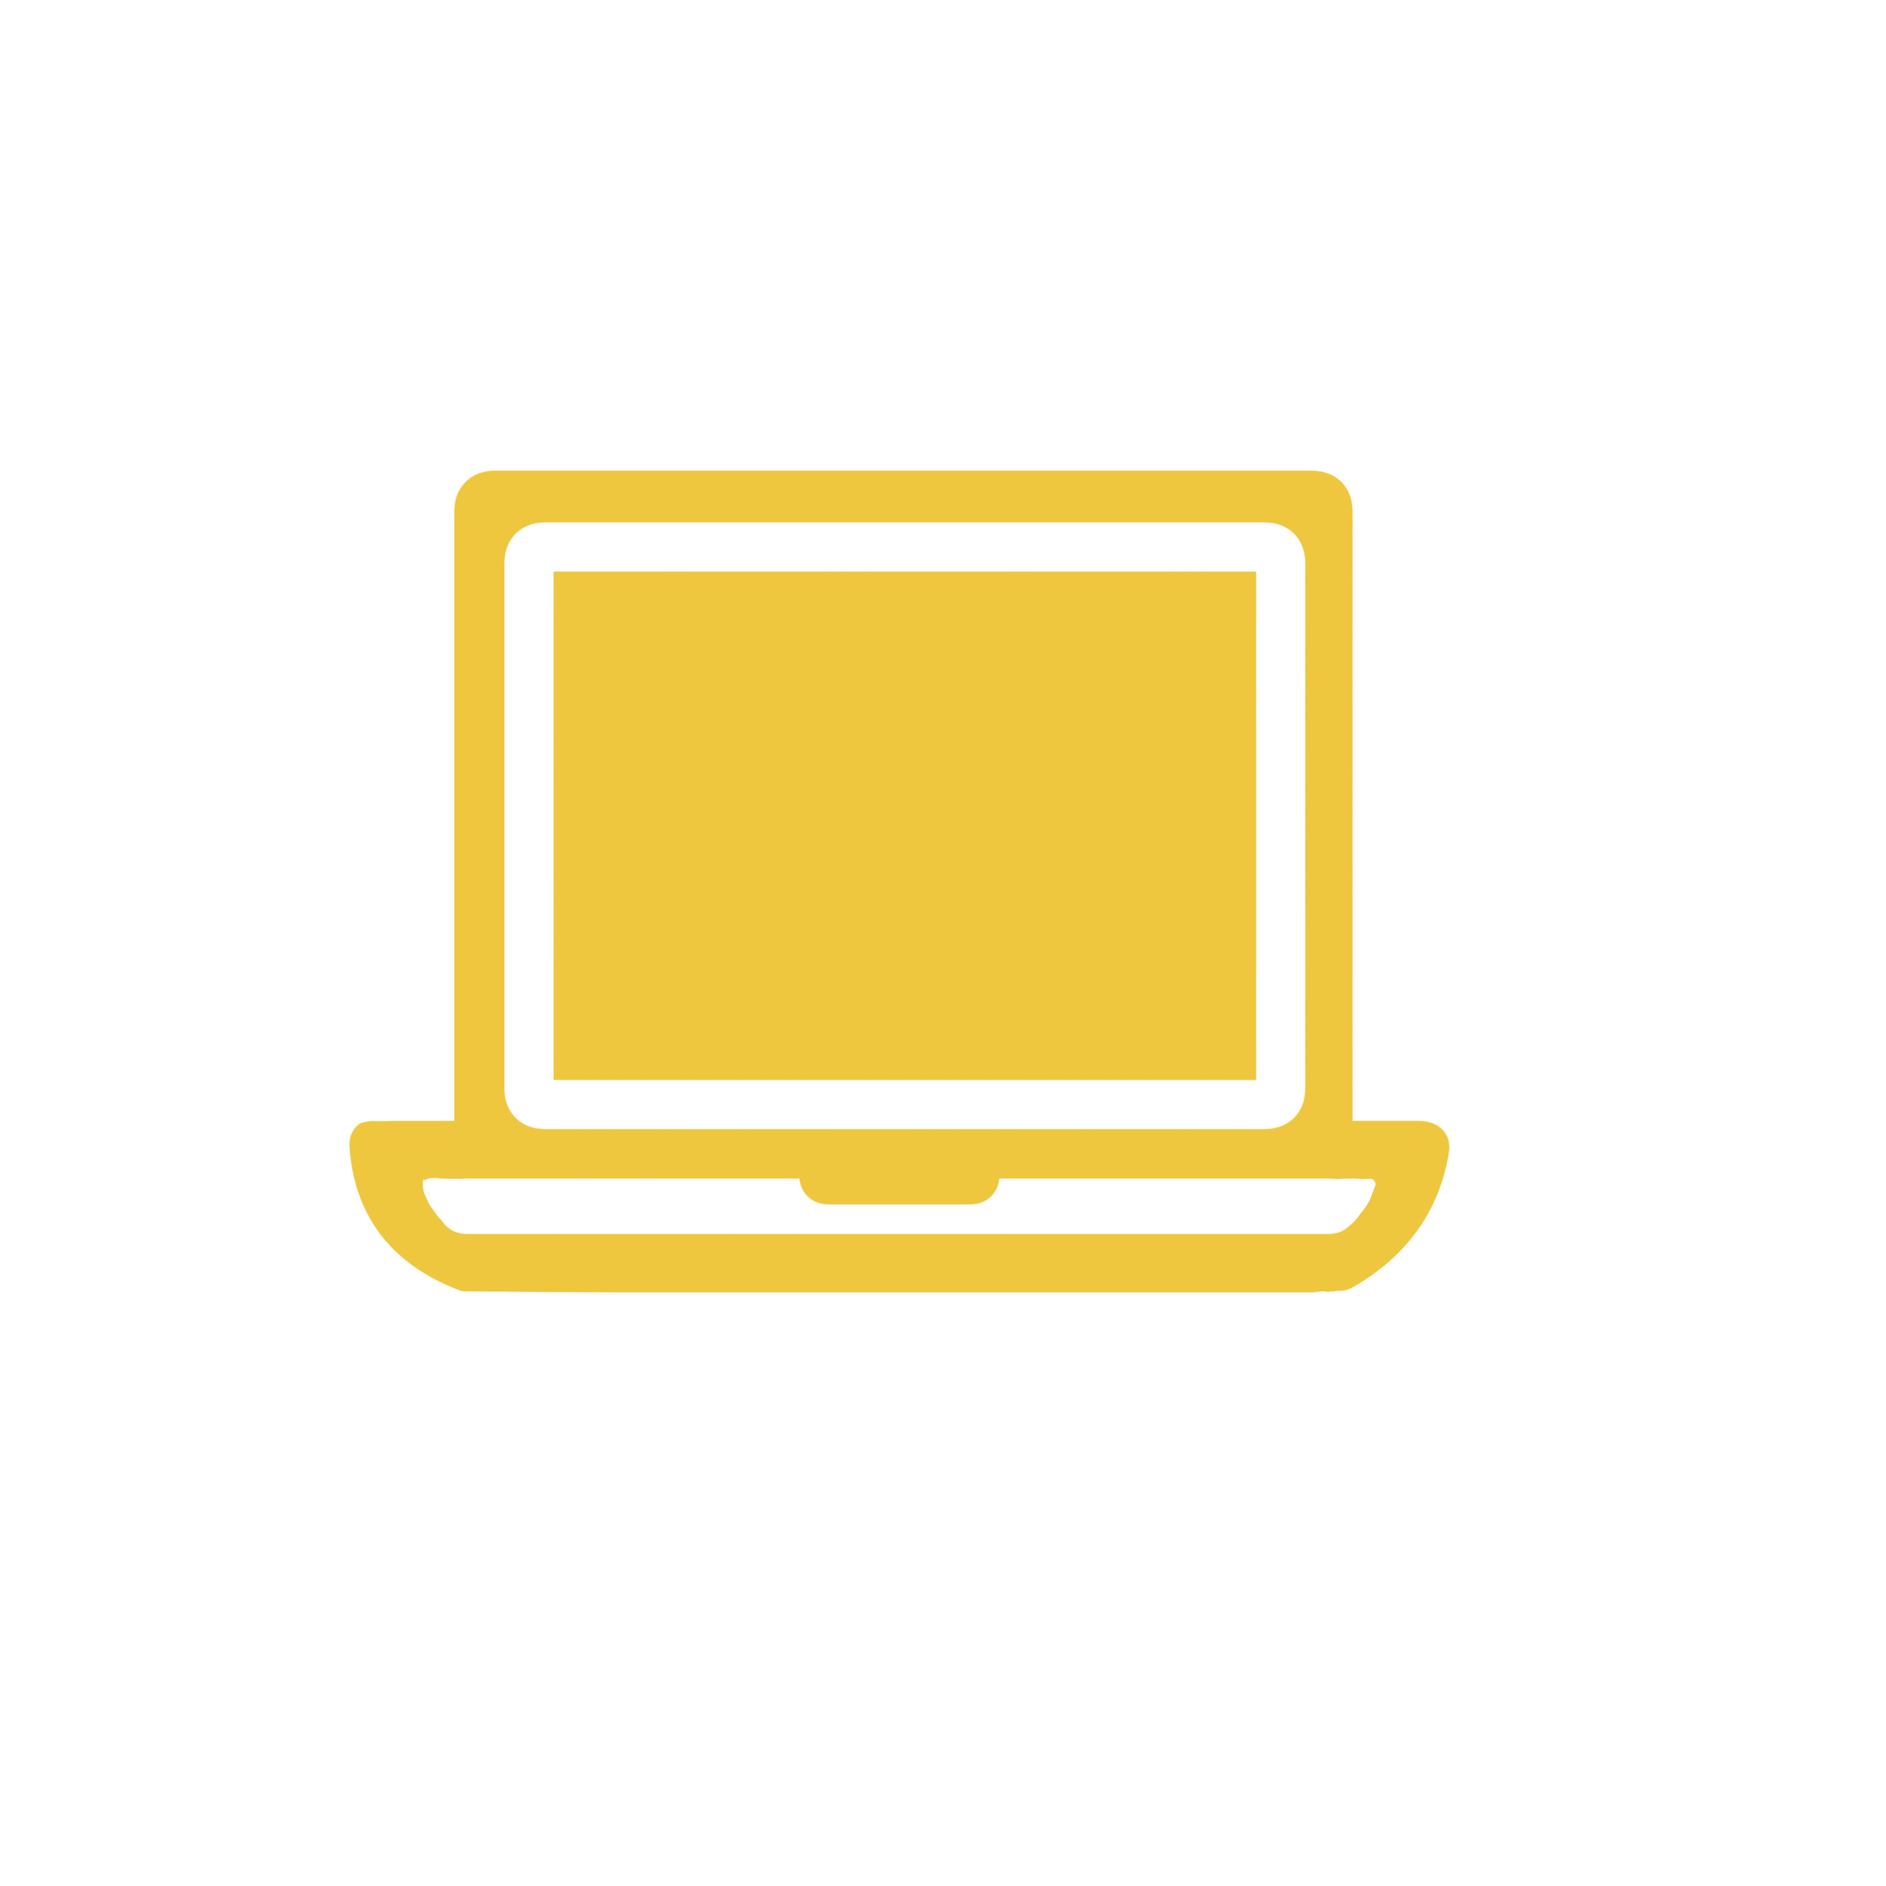
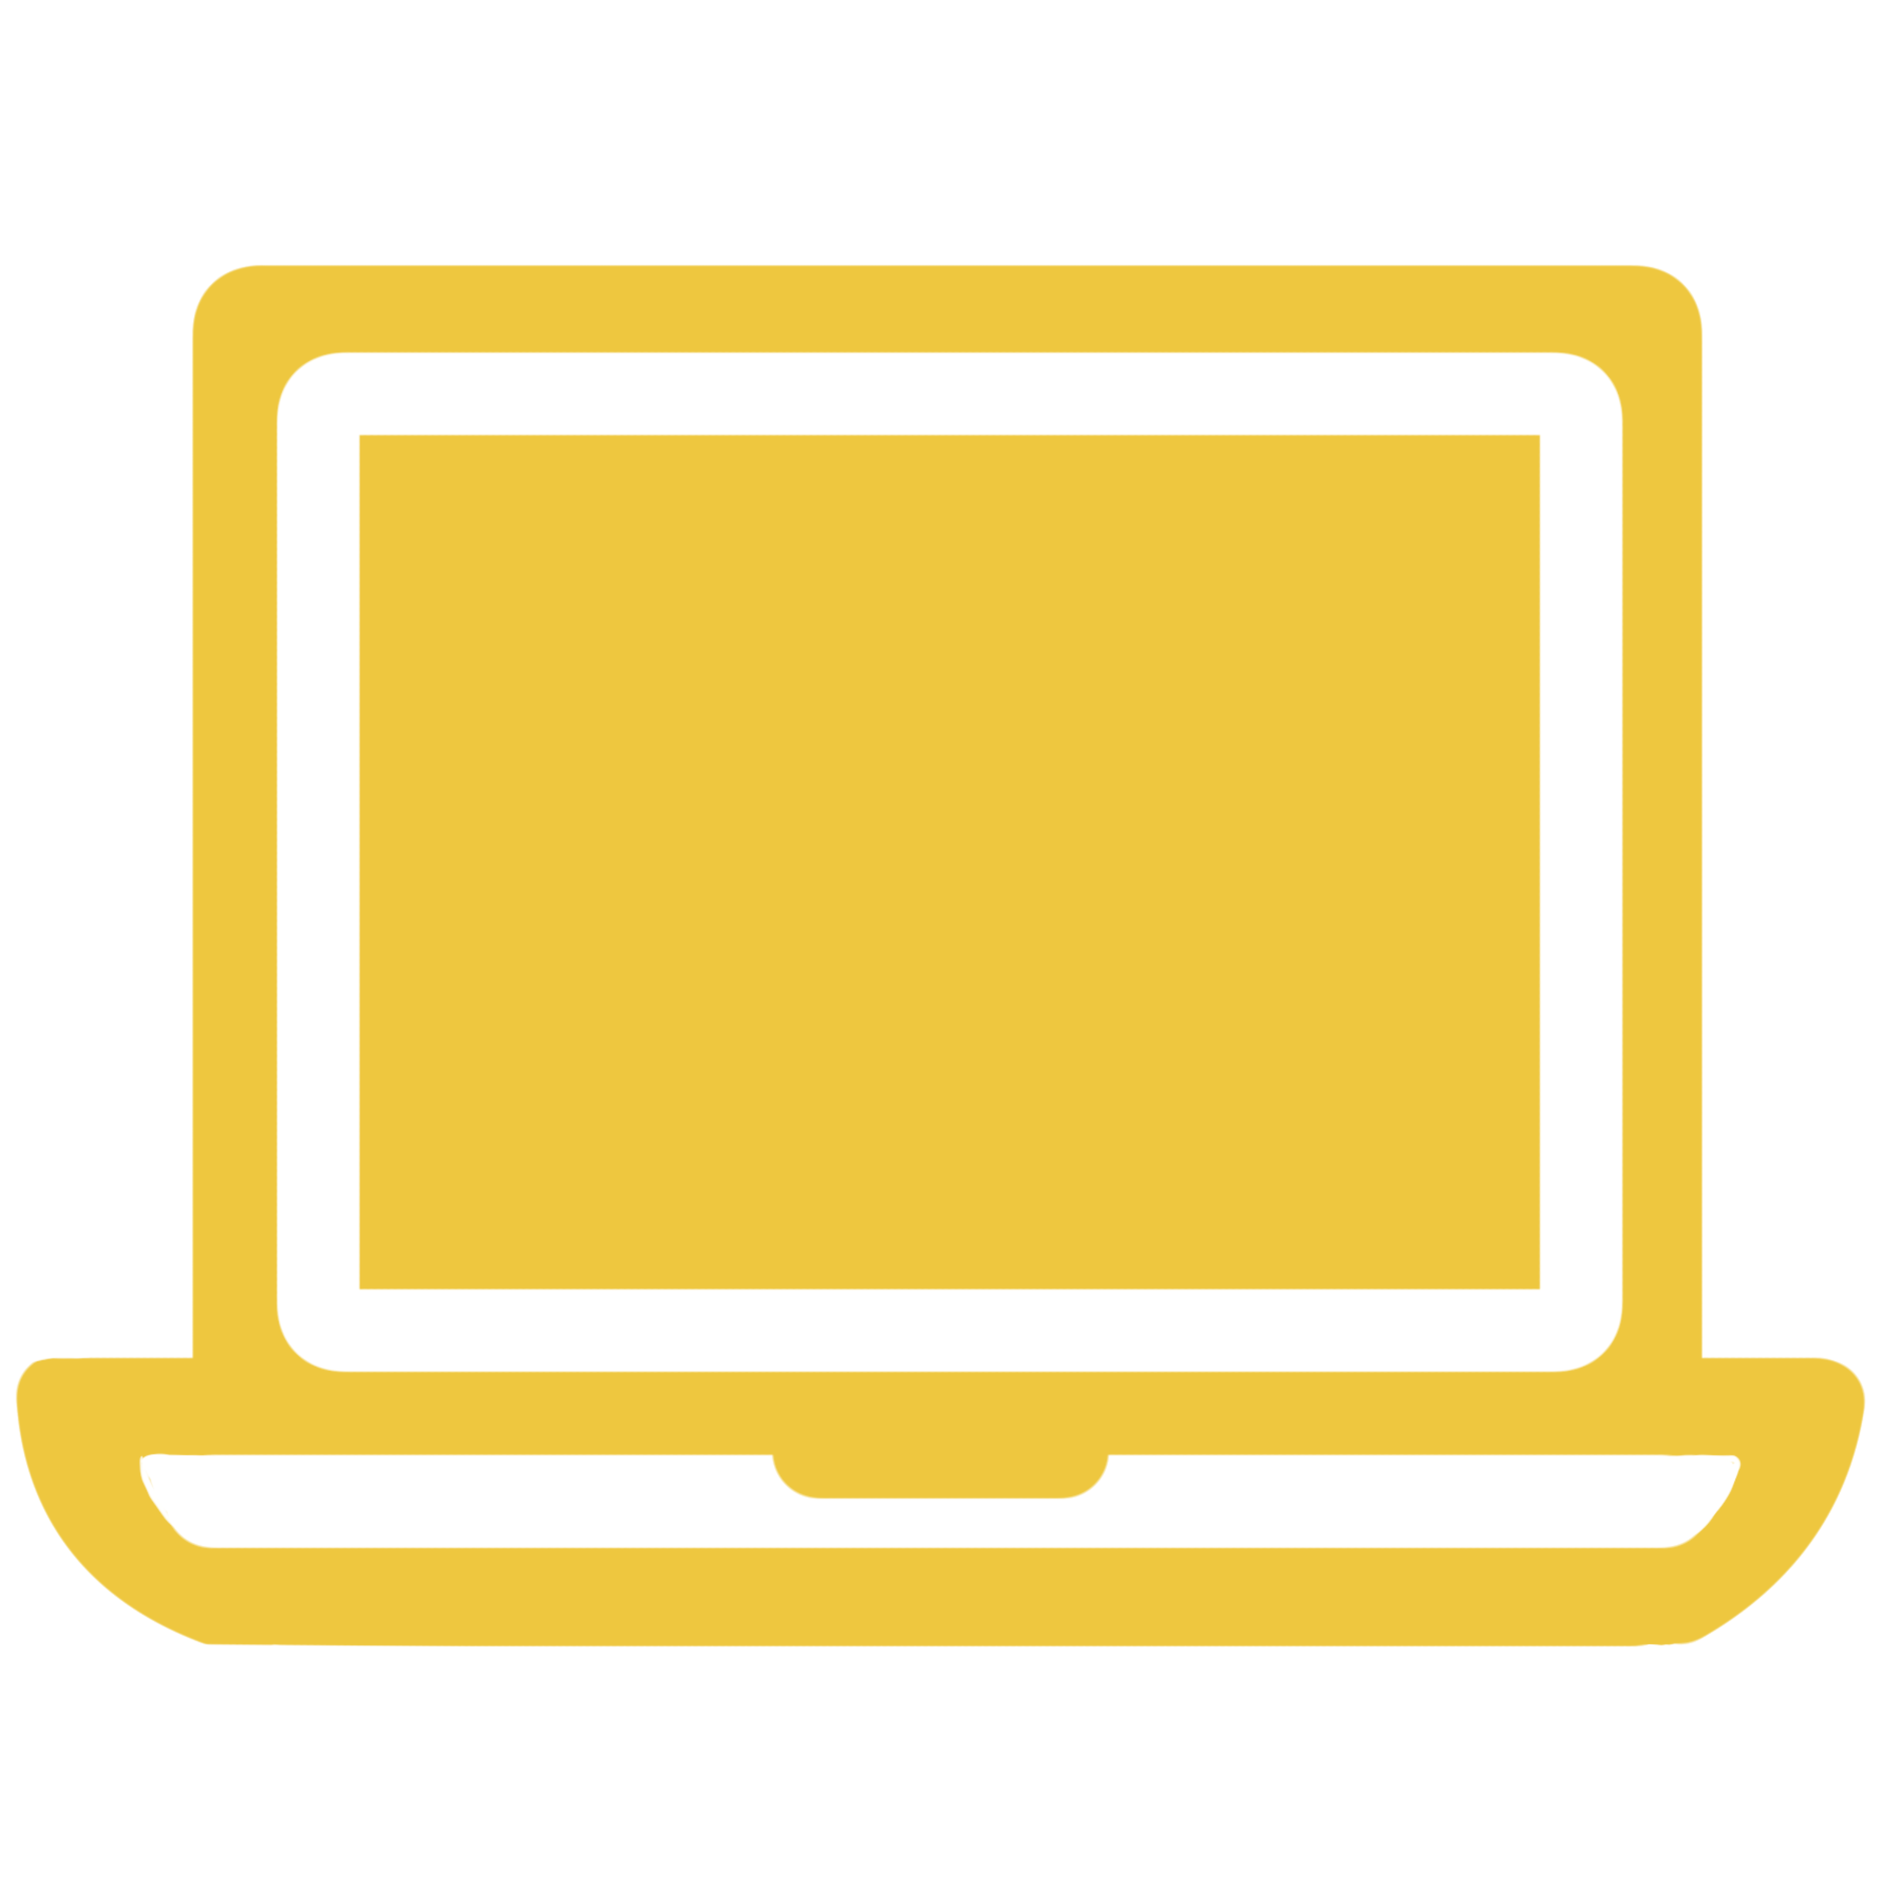
アニメーション改善

diff --git a/Hackathon-Template-main/app/recruit/page.tsx b/Hackathon-Template-main/app/recruit/page.tsx
@@ -41,14 +41,16 @@ export default function RecruitPage() {
 
       <div className="bg-background">
         <div className="mx-auto max-w-5xl px-4 py-12 sm:px-6 sm:py-14">
-          {/* リード */}
+          {/* リード（画面外右から左へスライド＋フェードイン） */}
           <section>
-            <SectionTitle eyebrow="Recruit" title={recruitLead.heading} />
-            <div className="mt-4 space-y-4 text-sm leading-relaxed text-muted-foreground">
-              {recruitLead.paragraphs.map((paragraph, index) => (
-                <p key={index}>{paragraph}</p>
-              ))}
-            </div>
+            <Reveal variant="slide-right">
+              <SectionTitle eyebrow="Recruit" title={recruitLead.heading} />
+              <div className="mt-4 space-y-4 text-sm leading-relaxed text-muted-foreground">
+                {recruitLead.paragraphs.map((paragraph, index) => (
+                  <p key={index}>{paragraph}</p>
+                ))}
+              </div>
+            </Reveal>
           </section>
 
           {/* 募集職種（アイコン付き3カード） */}
@@ -62,7 +64,7 @@ export default function RecruitPage() {
                 const delay = ((index + 1) * 100) as 100 | 200 | 300;
                 return (
                   <Reveal key={job.title} delay={delay}>
-                    <article className="lp-hover-lift flex h-full flex-col items-center rounded-xl border border-border bg-surface p-6 text-center">
+                    <article className="lp-card-hover-zoom flex h-full flex-col items-center rounded-xl border border-border bg-surface p-6 text-center">
                       <Image
                         src={job.icon}
                         alt=""
@@ -86,8 +88,8 @@ export default function RecruitPage() {
           <section className="mt-16">
             <SectionTitle eyebrow="Members" title="こんな人が集まっています！" />
             <div className="mt-6 grid gap-6 md:grid-cols-2 md:items-start">
-              {/* 写真（左） */}
-              <Reveal>
+              {/* 写真（左）：画面外左から右の定位置へスライド＋フェードイン */}
+              <Reveal variant="slide-left">
                 <div className="relative aspect-[4/3] w-full overflow-hidden rounded-xl border border-border">
                   <Image
                     src="/images/Group_photo2.jpg"
@@ -98,12 +100,14 @@ export default function RecruitPage() {
                   />
                 </div>
               </Reveal>
-              {/* 紹介文＋当てはまる人リスト（写真の右側に配置） */}
-              <Reveal delay={100}>
-                <div>
+              {/* 紹介文（早め）と当てはまる人リスト（やや遅れて）：どちらも画面外右からスライド */}
+              <div>
+                <Reveal variant="slide-right" delay={100}>
                   <p className="text-base leading-relaxed text-muted-foreground">
                     一つでも当てはまる方は、まずはカジュアル面談からでもお気軽にどうぞ。ベンチャーならではの和やかな雰囲気で、これからの会社を共に創ってくださる仲間をお待ちしています。
                   </p>
+                </Reveal>
+                <Reveal variant="slide-right" delay={200}>
                   <ul className="mt-4 space-y-2.5 text-base leading-relaxed text-slate-800">
                     {idealCandidates.map((candidate) => (
                       <li key={candidate} className="flex items-start gap-2">
@@ -115,8 +119,8 @@ export default function RecruitPage() {
                       </li>
                     ))}
                   </ul>
-                </div>
-              </Reveal>
+                </Reveal>
+              </div>
             </div>
 
             {/* 社員インタビュー（「社員インタビューはこちら」ボタンで開閉） */}

diff --git a/Hackathon-Template-main/components/EmployeeInterviews.tsx b/Hackathon-Template-main/components/EmployeeInterviews.tsx
@@ -2,6 +2,7 @@
 
 import Image from "next/image";
 import { useState } from "react";
+import { Reveal } from "@/components/Reveal";
 import type { EmployeeInterview } from "@/lib/data/jobs";
 
 type EmployeeInterviewsProps = {
@@ -32,34 +33,44 @@ export function EmployeeInterviews({ interviews }: EmployeeInterviewsProps) {
 
       {open ? (
         <div id="employee-interviews" className="mt-8 grid gap-4 md:grid-cols-2">
-          {interviews.map((interview) => (
-            <article
-              key={`${interview.initial}-${interview.role}`}
-              className="rounded-xl border border-border bg-surface p-6"
-            >
-              <div className="flex items-center gap-3">
-                <span className="flex h-12 w-12 shrink-0 items-center justify-center overflow-hidden rounded-full bg-muted">
-                  <Image
-                    src="/images/human.png"
-                    alt=""
-                    width={28}
-                    height={40}
-                    className="h-8 w-auto"
-                  />
-                </span>
-                <div>
-                  <p className="text-sm font-semibold text-slate-900">{interview.initial}</p>
-                  <p className="text-xs text-muted-foreground">{interview.role}</p>
-                </div>
-              </div>
-              <p className="mt-4 text-sm font-semibold text-slate-900">Q. {interview.question}</p>
-              <div className="mt-2 space-y-2 text-sm leading-relaxed text-muted-foreground">
-                {interview.answer.map((paragraph, index) => (
-                  <p key={index}>{paragraph}</p>
-                ))}
-              </div>
-            </article>
-          ))}
+          {interviews.map((interview, index) => {
+            // 100/200/300/400/500ms とずらすことで、カードが画面下から順番に出現
+            const delays = [100, 200, 300, 400, 500] as const;
+            const delay = delays[index % delays.length];
+            return (
+              <Reveal
+                key={`${interview.initial}-${interview.role}`}
+                variant="fade-up-strong"
+                delay={delay}
+              >
+                <article className="rounded-xl border border-border bg-surface p-6">
+                  <div className="flex items-center gap-3">
+                    <span className="flex h-12 w-12 shrink-0 items-center justify-center overflow-hidden rounded-full bg-muted">
+                      <Image
+                        src="/images/human.png"
+                        alt=""
+                        width={28}
+                        height={40}
+                        className="h-8 w-auto"
+                      />
+                    </span>
+                    <div>
+                      <p className="text-sm font-semibold text-slate-900">{interview.initial}</p>
+                      <p className="text-xs text-muted-foreground">{interview.role}</p>
+                    </div>
+                  </div>
+                  <p className="mt-4 text-sm font-semibold text-slate-900">
+                    Q. {interview.question}
+                  </p>
+                  <div className="mt-2 space-y-2 text-sm leading-relaxed text-muted-foreground">
+                    {interview.answer.map((paragraph, idx) => (
+                      <p key={idx}>{paragraph}</p>
+                    ))}
+                  </div>
+                </article>
+              </Reveal>
+            );
+          })}
         </div>
       ) : null}
     </div>

diff --git a/Hackathon-Template-main/app/company/page.tsx b/Hackathon-Template-main/app/company/page.tsx
@@ -94,10 +94,10 @@ export default function CompanyPage() {
             </Reveal>
           </section>
 
-          {/* 代表挨拶 */}
+          {/* 代表挨拶（画面外右から左へスライド＋フェードイン） */}
           <section className="mt-16">
             <SectionTitle eyebrow="Message" title="代表挨拶" />
-            <Reveal>
+            <Reveal variant="slide-right">
               <div className="mt-6 overflow-hidden rounded-xl border border-dashed border-border bg-muted/40">
                 <div className="relative aspect-[1004/400] w-full">
                   <Image
@@ -136,7 +136,7 @@ export default function CompanyPage() {
               {services.map((service, index) => {
                 const delay = ((index + 1) * 100) as 100 | 200 | 300;
                 return (
-                  <Reveal key={service.id} delay={delay}>
+                  <Reveal key={service.id} variant="slide-right" delay={delay}>
                     <ServiceCard service={service} />
                   </Reveal>
                 );
@@ -144,14 +144,14 @@ export default function CompanyPage() {
             </div>
           </section>
 
-          {/* 案件実績一覧（旧サービス案内ページから統合） */}
+          {/* 案件実績一覧（画面下からフェードアップ・0.5秒） */}
           <section className="mt-16">
             <SectionTitle
               eyebrow="Track record"
               title="案件実績一覧"
               description="これまでにご支援した主な取引先です。"
             />
-            <Reveal>
+            <Reveal variant="fade-up-strong">
               <div className="lp-hover-lift mt-8 rounded-xl border border-border bg-surface p-6">
                 <p className="text-sm leading-relaxed text-slate-800">楽天グループ株式会社　他</p>
               </div>
@@ -165,7 +165,7 @@ export default function CompanyPage() {
               title="アクセスマップ"
               description="各線の渋谷駅から徒歩 5〜10 分ほど。「道玄坂上交番前」交差点から道玄坂を少し上った左手のビルです。"
             />
-            <Reveal>
+            <Reveal variant="slide-right">
               <div className="mt-6 overflow-hidden rounded-xl border border-border">
                 <iframe
                   title="株式会社ライトパス 所在地の地図"

diff --git a/Hackathon-Template-main/app/globals.css b/Hackathon-Template-main/app/globals.css
@@ -135,6 +135,39 @@ body {
   animation: lp-fade-up-strong 0.5s cubic-bezier(0.22, 1, 0.36, 1) both;
 }
 
+/* Reveal の variant="slide-right" で使う：画面外右から左の定位置へスライド＋フェード（0.5秒） */
+.reveal-in-slide-right {
+  animation: lp-slide-in-right 0.5s cubic-bezier(0.22, 1, 0.36, 1) both;
+}
+
+/* Reveal の variant="slide-left" で使う：画面外左から右の定位置へスライド＋フェード（0.5秒） */
+@keyframes lp-slide-in-left {
+  from {
+    opacity: 0;
+    transform: translateX(-60px);
+  }
+  to {
+    opacity: 1;
+    transform: translateX(0);
+  }
+}
+.reveal-in-slide-left {
+  animation: lp-slide-in-left 0.5s cubic-bezier(0.22, 1, 0.36, 1) both;
+}
+
+/* 採用ページの募集職種カード用：ホバー時にわずかに拡大＋立体感 */
+.lp-card-hover-zoom {
+  transition:
+    transform 0.25s cubic-bezier(0.22, 1, 0.36, 1),
+    box-shadow 0.25s ease,
+    border-color 0.25s ease;
+}
+.lp-card-hover-zoom:hover {
+  transform: scale(1.04);
+  box-shadow: 0 14px 28px -12px rgba(15, 23, 42, 0.18);
+  border-color: var(--color-primary);
+}
+
 /* delay ユーティリティ（最大 500ms まで／必要なら追加してOK） */
 .lp-delay-100 { animation-delay: 0.1s; }
 .lp-delay-200 { animation-delay: 0.2s; }
@@ -182,12 +215,15 @@ body {
   .lp-animate-fade-in,
   .lp-animate-slide-in-right,
   .reveal-in-strong,
+  .reveal-in-slide-right,
+  .reveal-in-slide-left,
   .lp-marquee {
     animation: none !important;
     opacity: 1 !important;
     transform: none !important;
   }
-  .lp-hover-lift {
+  .lp-hover-lift,
+  .lp-card-hover-zoom {
     transition: none !important;
   }
 }

diff --git a/Hackathon-Template-main/components/Reveal.tsx b/Hackathon-Template-main/components/Reveal.tsx
@@ -6,7 +6,7 @@ type RevealProps = {
   /** 中に入れる任意の React 要素 */
   children: React.ReactNode;
   /** アニメーションの種類（既定：fade-up） */
-  variant?: "fade-up" | "fade-up-strong" | "fade" | "scale";
+  variant?: "fade-up" | "fade-up-strong" | "fade" | "scale" | "slide-right" | "slide-left";
   /**
    * 出現を少し遅らせたいとき（ミリ秒、5 段階：100/200/300/400/500）
    * - スタッガー（カードを順番に出すなど）に便利
@@ -81,7 +81,11 @@ export function Reveal({
         ? "reveal-in-scale"
         : variant === "fade-up-strong"
           ? "reveal-in-strong"
-          : "reveal-in";
+          : variant === "slide-right"
+            ? "reveal-in-slide-right"
+            : variant === "slide-left"
+              ? "reveal-in-slide-left"
+              : "reveal-in";
 
   const delayClass =
     delay === 100
